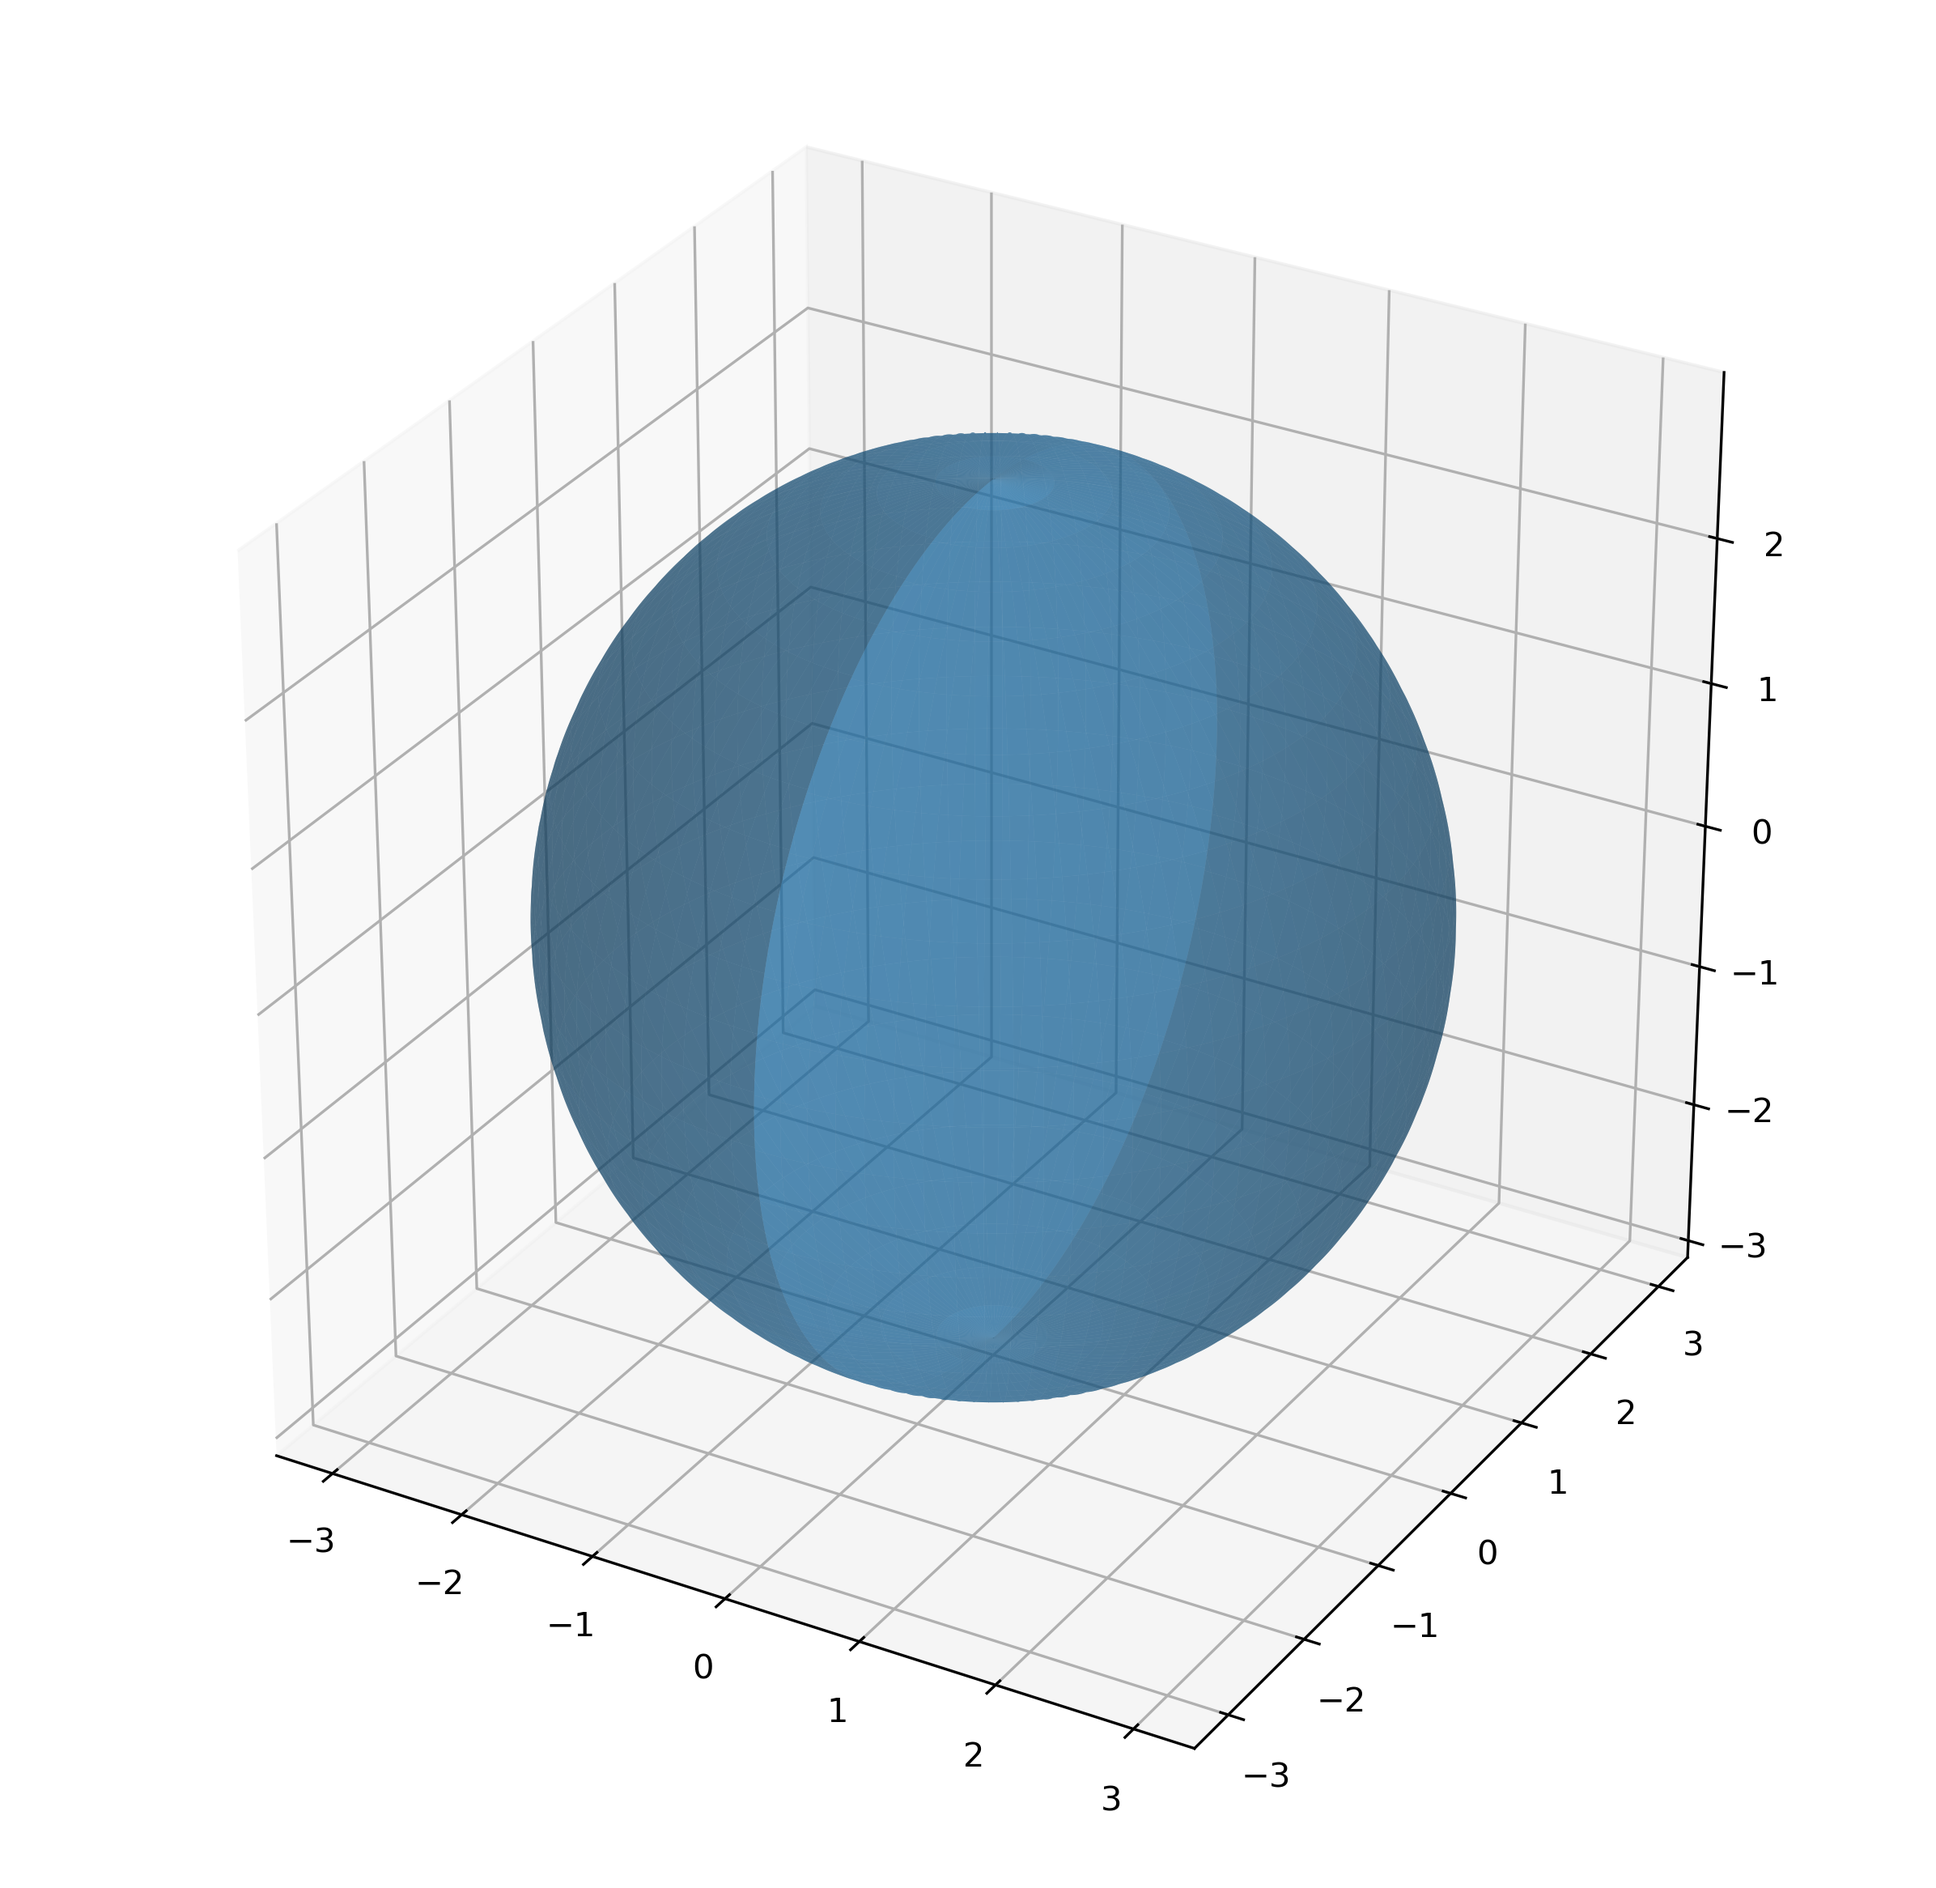
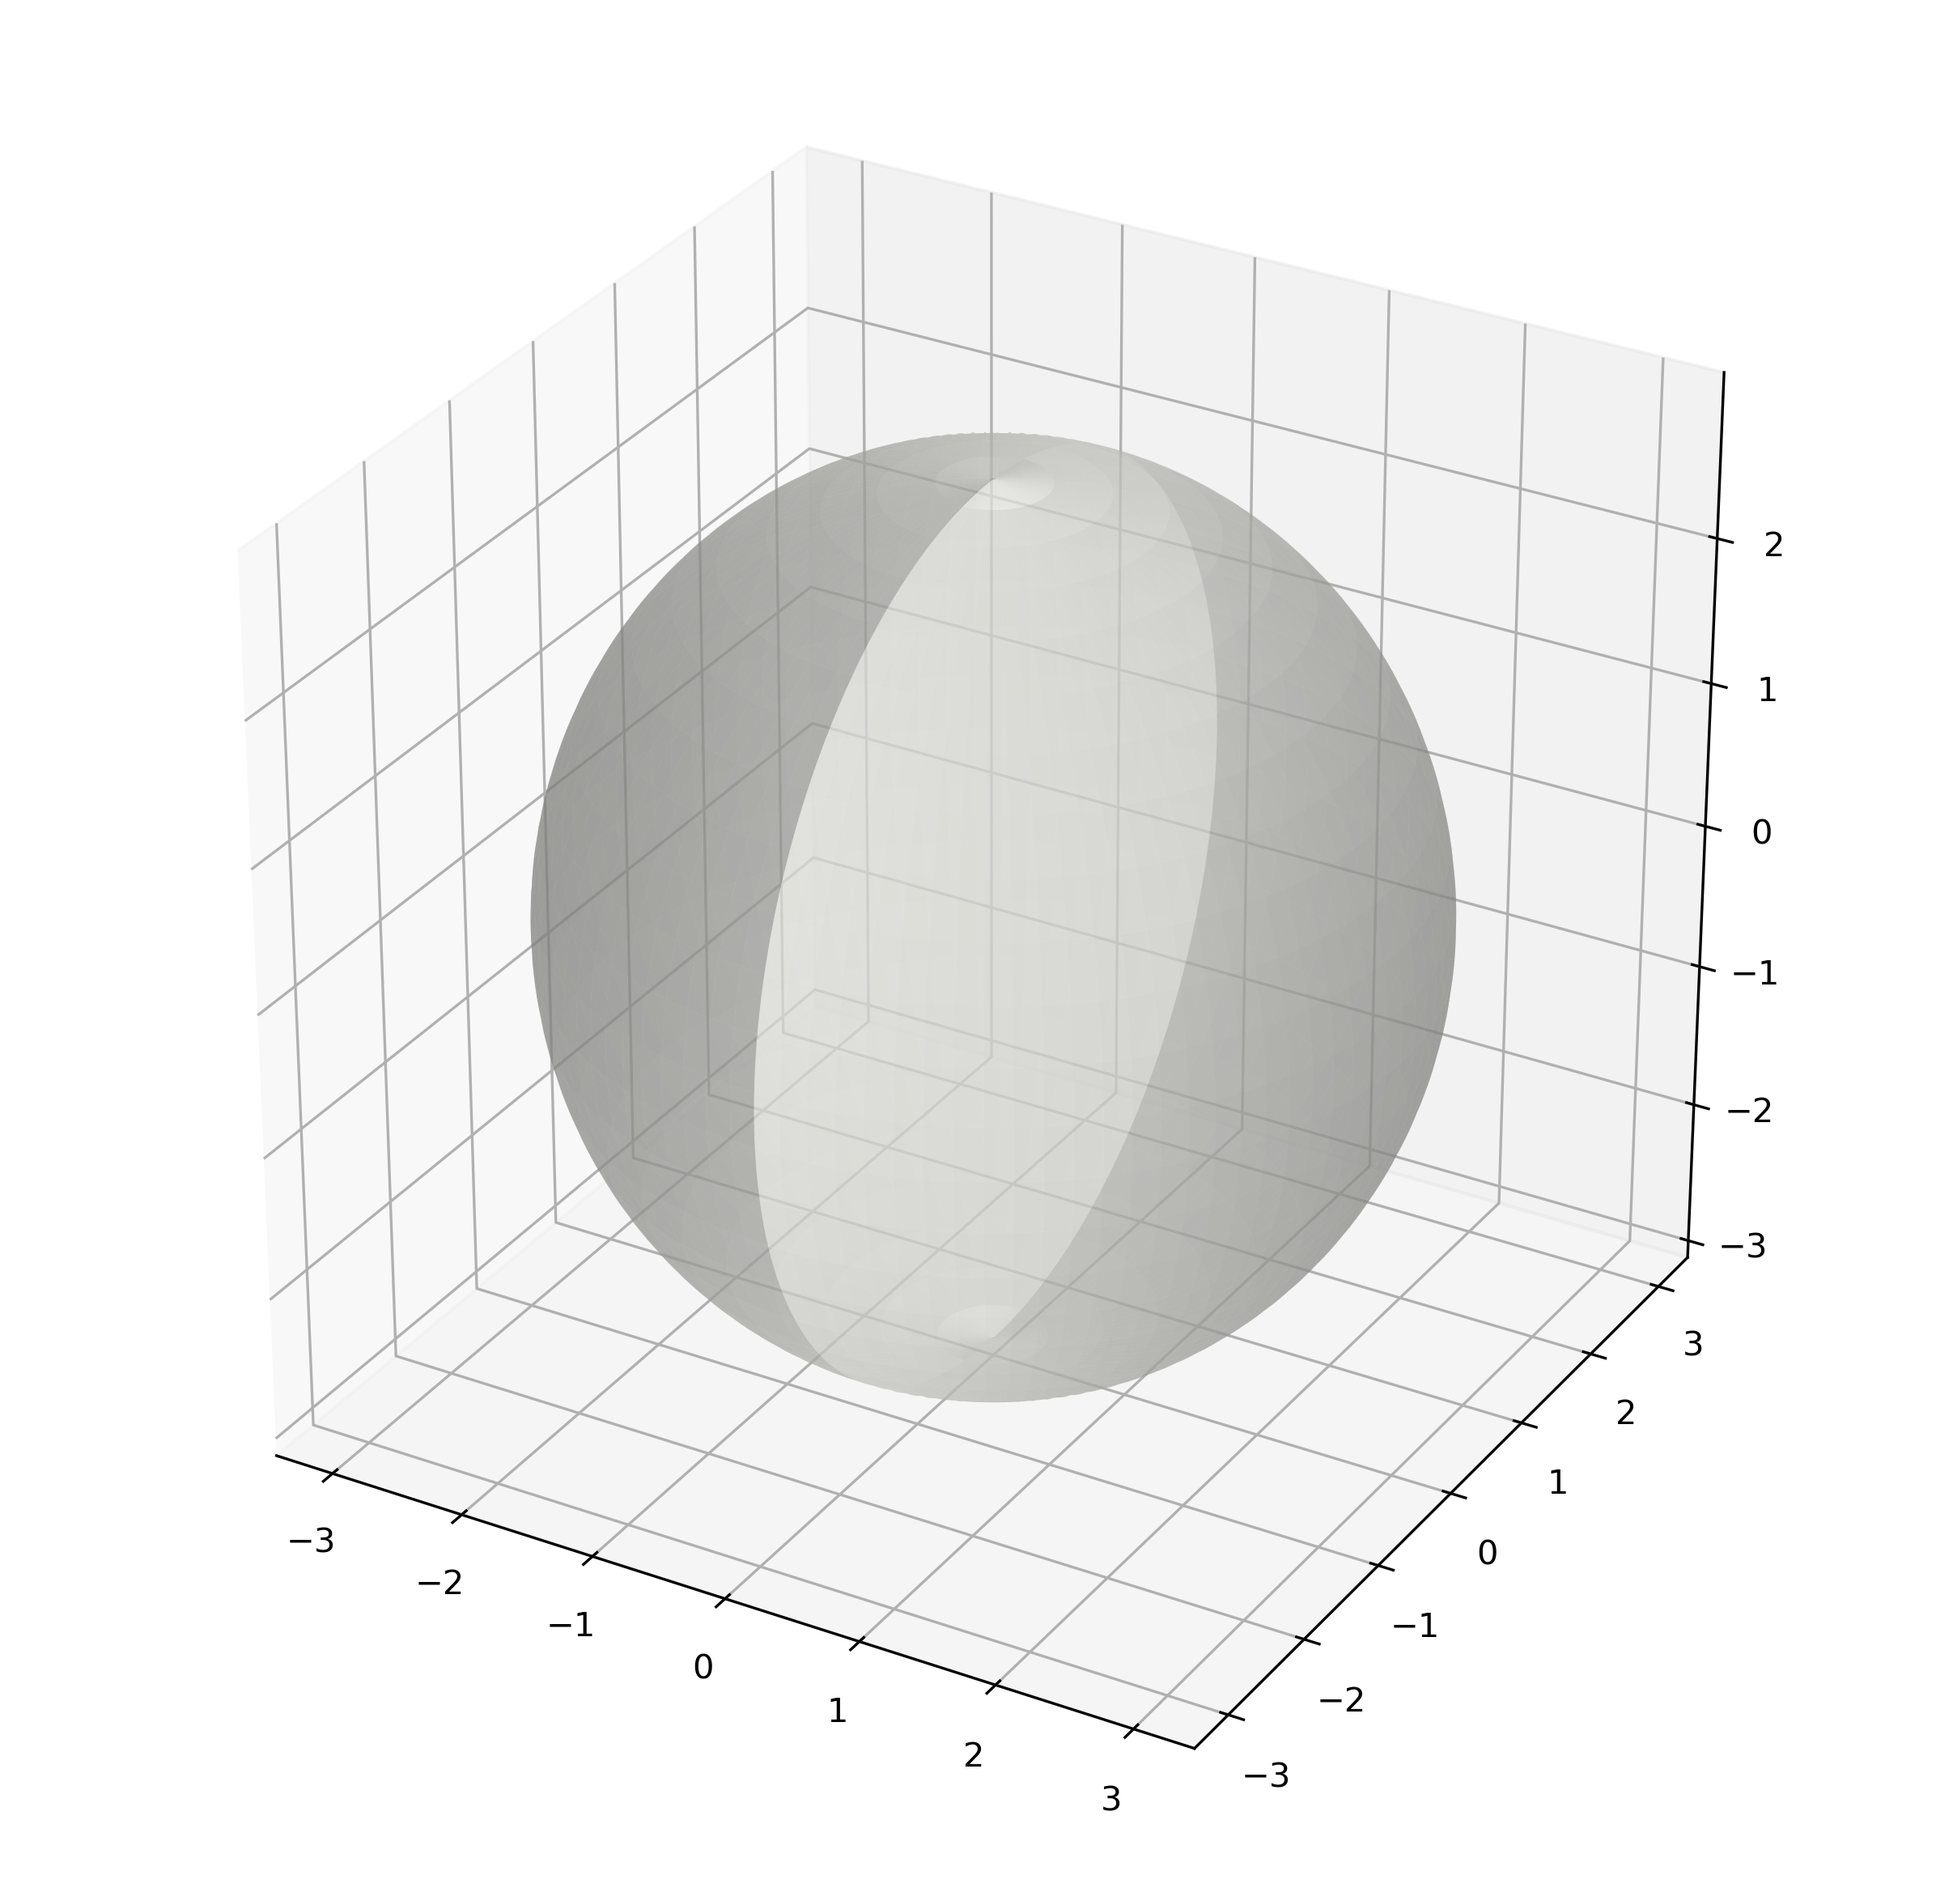
Yolo

Changed region(s): [[0.2475, 0.2161, 0.7734, 0.741]]

diff --git a/main.py b/main.py
@@ -157,6 +157,7 @@ print(Jalla4[-1])
 '''
 #gamma = IntM.gamma(Jalla3)
 #print(gamma)
+
 def gamSphere(m):
     theta=np.linspace(-np.pi/2,np.pi/2,1000)
     phi=np.linspace(-np.pi,np.pi,1000)
@@ -167,7 +168,7 @@ def gamSphere(m):
     return x,y,z
 def ellipsEnerg(m,L):
     Tinver=np.diag((1/np.asarray(L)))
-    const=.5*M.T @ (Tinver @ m)
+    const=.5*m.T @ (Tinver @ m)
     rx,ry,rz=.5*1/np.asarray(L)
     theta=np.linspace(-np.pi/2,np.pi/2,1000)
     phi=np.linspace(-np.pi,np.pi,1000)
@@ -176,11 +177,45 @@ def ellipsEnerg(m,L):
     z=rz*np.outer(np.ones(np.size(theta)),np.cos(phi))
     return x,y,z
 
+def intersectSphEll(m0,L):
+    const=.5*m.T @ (Tinver @ m)
+    r = m.T @ m
+    rx,ry,rz=.5*1/np.asarray(L)
+    circ=lambda phi,theta: return np.array([[r*np.cos(theta)*np.sin(phi)],
+                                           [r*np.sin(theta)*np.sin(phi)],
+                                           [r*np.cos(phi)]])
+    ellips=lambda phi,theta: return np.array([[rx*np.cos(theta)*np.sin(phi)],
+                                              [ry*np.sin(theta)*np.sin(phi)],
+                                              [rz*np.cos(phi)]])
+    theta=np.linspace(-np.pi/2,np.pi/2,1000)
+    phi=np.linspace(-np.pi,np.pi,1000)
+    sol=[]
+    for t in theta:
+        for e in phi:
+            s=circ(e,t)
+            t=ellips(e,t)
+            if e==t:
+                sol.append(s)
+    return sol
+        
+'''def plotIntersect(m0,Solution):
+    X,Y,Z=gamSphere(m0)
+    X2,Y2,Z2=
+    fig = plt.figure(dpi=300,figsize=(10,10))
+    ax = fig.gca(projection='3d')
+    plt.axis('off')
+    ax.plot_surface(X,Y,Z,alpha=0.5,rstride=4,cstride=4,color='#f6f6f0')
+    plt.show()'''
+
 X,Y,Z=gamSphere(m0)
-fig = plt.figure(dpi=300,figsize=(10,10))
+X2,Y2,Z2=intersectSphEll(m0,L)
+fig = plt.figure(dpi=100,figsize=(10,10))
 ax = fig.gca(projection='3d')
-ax.plot_surface(X,Y,Z,alpha=0.5)
+plt.axis('off')
+ax.plot_surface(X,Y,Z,alpha=0.5,rstride=4,cstride=4,color='#f6f6f0')
+ax.plot(X2,Y2,Z2)
 plt.show()
+
 #gammaRef=
 #EnerRef=
 
